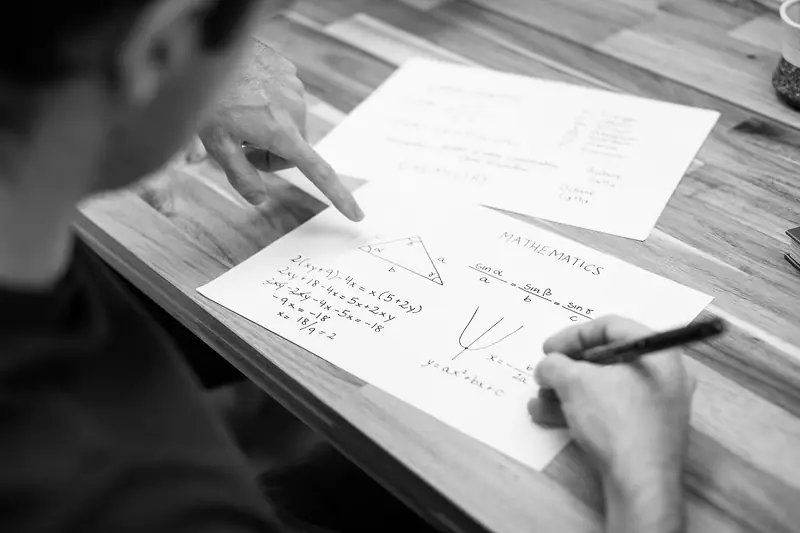
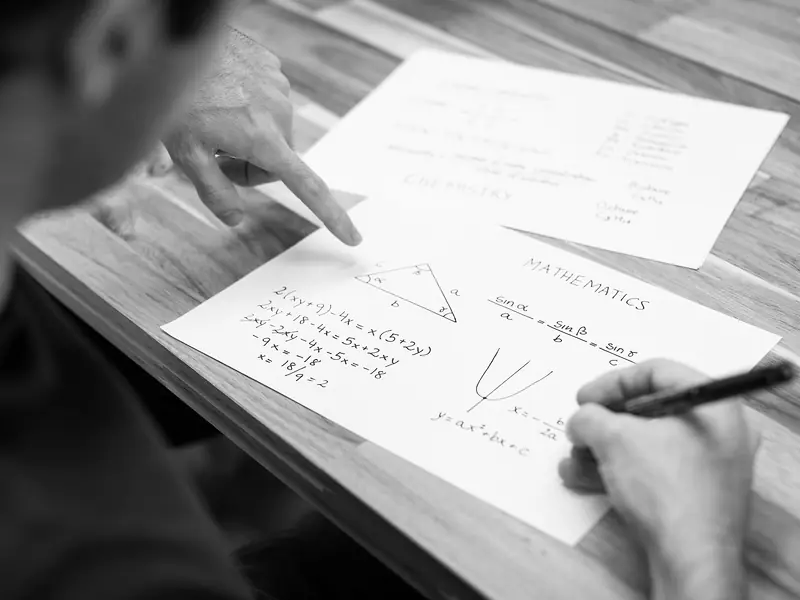
St. Columba round 2

diff --git a/schools/montessori/index.html b/schools/montessori/index.html
@@ -122,10 +122,10 @@ a:hover{text-decoration-thickness:2px}
 @media (min-width:900px){
   .open{padding:0 0 var(--s7)}
   .open .g{align-items:stretch}
-  .open-copy{grid-column:1/6;align-self:center;padding:var(--s5) 0}
-  .open-photo{grid-column:6/13;margin:0 calc(var(--gut)*-1) 0 0}
+  .open-copy{grid-column:8/13;grid-row:1;align-self:center;padding:var(--s5) 0 var(--s5) var(--s5)}
+  .open-photo{grid-column:1/8;grid-row:1;margin:0 0 0 calc(var(--gut)*-1)}
   .open-photo img{aspect-ratio:auto;height:min(640px,calc(100vh - 200px));min-height:440px}
-  .open-photo figcaption{padding:var(--s2) var(--gut) 0 0}
+  .open-photo figcaption{padding:var(--s2) 0 0 var(--gut)}
 }
 
 /* the worktable */
@@ -155,7 +155,7 @@ a:hover{text-decoration-thickness:2px}
 @media (min-width:1200px){.tray{--k:.44}}
 .js .piece.off{opacity:0;transform:translateY(-16px);pointer-events:none}
 .build{margin-top:var(--s5);display:flex;flex-wrap:wrap;align-items:center;column-gap:var(--s4)}
-.no-js .build{display:none}
+.no-js .build,.no-js .shelf{display:none}
 .count{font-size:var(--t-num);line-height:1;font-weight:600;letter-spacing:-.02em;font-variant-numeric:tabular-nums lining-nums;margin-bottom:var(--s3)}
 .work-txt h3{margin-bottom:var(--s2)}
 .day{margin-top:var(--s4);padding-top:var(--s3);border-top:1px solid var(--pale)}

diff --git a/schools/lantern/assets/CREDITS.md b/schools/lantern/assets/CREDITS.md
@@ -1,22 +1,38 @@
-# Lantern Middle School demo: asset credits
+# Lantern Middle School demo: asset credits (round 2)
 
-All photos come from Wikimedia Commons (checked 2026-11-05). Each one was cropped, converted to greyscale and gradient-mapped with ImageMagick (`assets` built by a local script, not shipped): shadows to midnight indigo #06071c / #1b1d55, mids to plum #45285f, highlights to ember #bb5d2a, candle amber #ee9d38 and candle-light #ffe7bd. One treatment on every photo so mixed sources read as one shoot. Exported as WebP (1000 w + 640 w; hero 1600 w + 1100 w + 800 w phone crop). No child's face is identifiable in any photo.
+The round-2 page (`index.html`) uses only `assets/r2/` and `assets/fonts/piazzolla-sub.woff2`.
+`assets/img/`, `fonts/literata-sub.woff2` and `fonts/schibsted-sub.woff2` belong to the round-1 page (backup at `schools/_r1/lantern/index.html`) and are not loaded by round 2.
+
+## Photos (round 2)
+
+All from Wikimedia Commons, checked 2026-11-05. One treatment for all: cropped, converted to greyscale with ImageMagick (`-colorspace Gray -sigmoidal-contrast 2.6,48%`), no tint, no grain. No child's face is identifiable.
 
 | File(s) | What it shows | Source page | Creator | Licence | Edits | Replace with the school's own? |
 |---|---|---|---|---|---|---|
-| img/hero-1600.webp, hero-1100.webp, hero-800.webp | Empty hallway with lockers, light through the end window | https://commons.wikimedia.org/wiki/File:FMS_PTS_Wien_3_int_03.jpg | Aulona Selmani (FMS/PTS Wien 3) | CC BY-SA 4.0 | Cropped (wide + phone crops), toned indigo to amber. The edited image is shared under CC BY-SA 4.0 | Yes: the school's own hallway or building at dusk |
-| img/f5-1000.webp, f5-640.webp | Hand with pencil on a new notebook | https://commons.wikimedia.org/wiki/File:Taking_notes_with_a_pencil_(Unsplash).jpg | Thought Catalog (via Unsplash) | CC0 | Toned | Optional |
-| img/f6-1000.webp, f6-640.webp | Tutor's finger on a math worksheet, student writing | https://commons.wikimedia.org/wiki/File:Tutoring_Math.jpg | Preply.com Images | CC BY 2.0 | Toned | Yes: the school's study hall |
-| img/f7-1000.webp, f7-640.webp | Paddler in a canoe at sunrise, from behind | https://commons.wikimedia.org/wiki/File:Rising_Paddle_(6137355546).jpg | RichardBH (Hamilton, Canada) | CC BY 2.0 | Cropped to 3:2, toned | Yes: the school's summer program |
-| img/f8-1000.webp, f8-640.webp | Handwritten algebra next to a graphing calculator | https://commons.wikimedia.org/wiki/File:Algebra_Homework_and_Review.jpg | Kurt Kaiser | CC0 | Cropped to 3:2, toned | Optional |
-| img/fa-1000.webp, fa-640.webp | Shadow of a graduate in cap and gown | https://commons.wikimedia.org/wiki/File:Graduation-1695185_1920.jpg | Cparks | CC0 | Toned, slight blur to compress the pavement texture | Yes: the school's own alumni |
-| img/vol-1000.webp, vol-640.webp | Tutor writing on a whiteboard, from behind | https://commons.wikimedia.org/wiki/File:English_Tutor.jpg | Preply.com Images | CC BY 2.0 | Toned | Yes: a real volunteer (with release) |
+| r2/hero-1600.webp, r2/hero-800.webp | A tutor's finger on a math worksheet while a student writes | https://commons.wikimedia.org/wiki/File:Tutoring_Math.jpg | Preply.com Images | CC BY 2.0 | Black and white | Yes: a real study-hall moment (with releases) |
+| r2/e5-1400.webp, r2/e5-700.webp | Hand with a pencil on a new notebook | https://commons.wikimedia.org/wiki/File:Taking_notes_with_a_pencil_(Unsplash).jpg | Thought Catalog (via Unsplash) | CC0 | Cropped 7:4, black and white | Optional |
+| r2/e7-1600.webp, r2/e7-800.webp | Paddler in a canoe at sunrise, from behind | https://commons.wikimedia.org/wiki/File:Rising_Paddle_(6137355546).jpg | RichardBH (Hamilton, Canada) | CC BY 2.0 | Cropped 2:1, black and white | Yes: the school's summer program |
+| r2/e8-900.webp, r2/e8-600.webp | Handwritten algebra next to a graphing calculator | https://commons.wikimedia.org/wiki/File:Algebra_Homework_and_Review.jpg | Kurt Kaiser | CC0 | Cropped 4:3, black and white | Optional |
+| r2/ea-800.webp, r2/ea-500.webp | Graduates in caps and gowns, from behind | https://commons.wikimedia.org/wiki/File:Graduation-cap-g6c3c0e4d0_1920.jpg | McElspeth (via Pixabay) | CC0 | Cropped 4:5 | Yes: the school's own alumni |
+| r2/vol-1000.webp, r2/vol-640.webp | Tutor writing on a whiteboard, from behind | https://commons.wikimedia.org/wiki/File:English_Tutor.jpg | Preply.com Images | CC BY 2.0 | Black and white | Yes: a real volunteer (with release) |
 
-## Fonts
+## Font (round 2)
 
 | File | Family | Source | Licence | Notes |
 |---|---|---|---|---|
-| fonts/literata-sub.woff2 | Literata (variable: opsz 7-72, wght 400-600) | Google Fonts | SIL Open Font License 1.1 | Subset with the Google Fonts `text=` parameter to the characters the page uses in English and Spanish |
-| fonts/schibsted-sub.woff2 | Schibsted Grotesk (variable: wght 400-600) | Google Fonts | SIL Open Font License 1.1 | Same subset method |
+| fonts/piazzolla-sub.woff2 | Piazzolla, variable (opsz 8-30, wght 400-500), by Huerta Tipográfica | Google Fonts | SIL Open Font License 1.1 | Subset with the Google Fonts `text=` parameter to the characters the page uses in English and Spanish |
 
-The footer of index.html carries a "Photo credits" disclosure with the CC BY / CC BY-SA attributions in English and Spanish.
+## Round-1 files kept for the backup page
+
+| File(s) | Source | Creator | Licence |
+|---|---|---|---|
+| img/hero-*.webp | https://commons.wikimedia.org/wiki/File:FMS_PTS_Wien_3_int_03.jpg | Aulona Selmani (FMS/PTS Wien 3) | CC BY-SA 4.0 (the edit is shared under CC BY-SA 4.0) |
+| img/f5-*.webp | Taking notes with a pencil (see above) | Thought Catalog | CC0 |
+| img/f6-*.webp | Tutoring Math (see above) | Preply.com Images | CC BY 2.0 |
+| img/f7-*.webp | Rising Paddle (see above) | RichardBH | CC BY 2.0 |
+| img/f8-*.webp | Algebra Homework and Review (see above) | Kurt Kaiser | CC0 |
+| img/fa-*.webp | https://commons.wikimedia.org/wiki/File:Graduation-1695185_1920.jpg | Cparks | CC0 |
+| img/vol-*.webp | English Tutor (see above) | Preply.com Images | CC BY 2.0 |
+| fonts/literata-sub.woff2, fonts/schibsted-sub.woff2 | Google Fonts | TypeTogether / Schibsted | SIL OFL 1.1 |
+
+The page footer carries a "Photo credits" disclosure with the CC BY attributions in English and Spanish.

diff --git a/schools/catholic/assets/CREDITS.md b/schools/catholic/assets/CREDITS.md
@@ -1,15 +1,15 @@
-# St. Columba Parish School demo: asset credits
+# St. Columba Parish School demo: asset credits (round 2)
 
-All photos got one treatment with ImageMagick: saturation 92%, a 38% blend with a lapis-to-vellum gradient map of the same frame (`-level-colors "#101a40,#f7e9c8"`), sigmoidal contrast 1.8, exported WebP. No people's faces appear in any photo.
+Photos are straight colour (round 2 removed the round-1 duotone grade): saturation 95%, sigmoidal contrast 1.6, Lanczos resize, WebP. No child's face appears in any photo. Every photo is a placeholder for the school's own photography.
 
 | File | What it is | Source | Creator | Licence | Edits | Slot |
 |---|---|---|---|---|---|---|
-| hero-1600.webp, hero-800.webp, hero-600.webp | Empty 19th-century classroom (desks, piano, chalkboard alphabet) | https://commons.wikimedia.org/wiki/File:19th_century_classroom,_Auckland_-_0767.jpg | Jorge Royan | CC BY-SA 3.0 (credited in the page footer, "Photo credits") | Cropped (desktop 3400x2877 from x465; phone 4329x2165 from y560), graded, resized | Replace with the school's own photo |
-| hands-ruler.webp, hands-ruler-640.webp | A student's hands with a ruler on a spiral notebook | https://stocksnap.io/photo/student-school-KBTSP7FFIY | StockSnap contributor | CC0 | Graded, resized | Replace with the school's own photo |
-| chapel.webp, chapel-640.webp | Side chapel: votive candles, statue of Mary, brick wall, stained glass | https://stocksnap.io/photo/church-chapel-5Q0IQEVLFP | StockSnap contributor | CC0 | Graded, resized | Replace with the parish's own chapel |
-| first-letters.webp, first-letters-640.webp | A young child's hands practising cursive capitals (no face) | https://stocksnap.io/photo/child-kid-X6077HDEQH | StockSnap contributor | CC0 | Cropped 960x480 from y160, graded, resized | Replace with the school's own photo |
-| fonts/caslon-display.woff2 | Libre Caslon Display 400, Latin subset | Google Fonts (fonts.gstatic.com) | Pablo Impallari, Rodrigo Fuenzalida | SIL Open Font License 1.1 | Self-hosted, unmodified | Keep |
-| fonts/caslon-text.woff2 | Libre Caslon Text 400, Latin subset | Google Fonts | Pablo Impallari, Rodrigo Fuenzalida | SIL Open Font License 1.1 | Self-hosted, unmodified | Keep |
-| fonts/franklin.woff2 | Libre Franklin variable, Latin subset | Google Fonts | Impallari Type | SIL Open Font License 1.1 | Self-hosted, unmodified | Keep |
+| r2-hero-1600.webp, r2-hero-800.webp, r2-hero-600.webp | A student's hands steadying a ruler on a spiral notebook | https://stocksnap.io/photo/student-school-KBTSP7FFIY | StockSnap contributor | CC0 | Source is 960 px wide: Lanczos upscale to 1600 plus light unsharp for desktop; phone crops 960x560 centred | Replace with the school's own photo (best: a teacher kneeling beside a child at a desk, faces turned away or released) |
+| r2-letters.webp, r2-letters-640.webp | A young child's hands practising cursive capitals | https://stocksnap.io/photo/child-kid-X6077HDEQH | StockSnap contributor | CC0 | Crop 960x560 from y80 | Replace with the school's own photo |
+| r2-chapel.webp, r2-chapel-640.webp | Side chapel: votive candles, statue of Mary, brick wall, stained glass | https://stocksnap.io/photo/church-chapel-5Q0IQEVLFP | StockSnap contributor | CC0 | Resize only | Replace with the parish's own chapel |
+| fonts/alegreya.woff2 | Alegreya variable (400 to 700), Latin subset | Google Fonts | Juan Pablo del Peral, Huerta Tipográfica | SIL Open Font License 1.1 | Self-hosted, unmodified | Keep |
+| fonts/alegreya-sans-500.woff2 | Alegreya Sans 500, Latin subset | Google Fonts | Juan Pablo del Peral, Huerta Tipográfica | SIL Open Font License 1.1 | Self-hosted, unmodified | Keep |
 
-Drawn in code (no external source): the St. Columba tartan sett (inline SVG data URI), the Celtic-cross mark and seal, the school clock, the St. Columba Hall elevation drawing, all icons.
+Drawn in code (no external source): the engraved marks (school bell, school door, open exercise book), the uniform tartan swatch, the school clock, the St. Columba Hall elevation.
+
+Round-1 files still in this folder but no longer referenced by index.html: hero-*.webp (Jorge Royan, CC BY-SA 3.0), hands-ruler*, chapel*, first-letters*, fonts/caslon-*.woff2, fonts/franklin.woff2. Kept for the `_r1` backup; safe to delete with Irving's OK.
